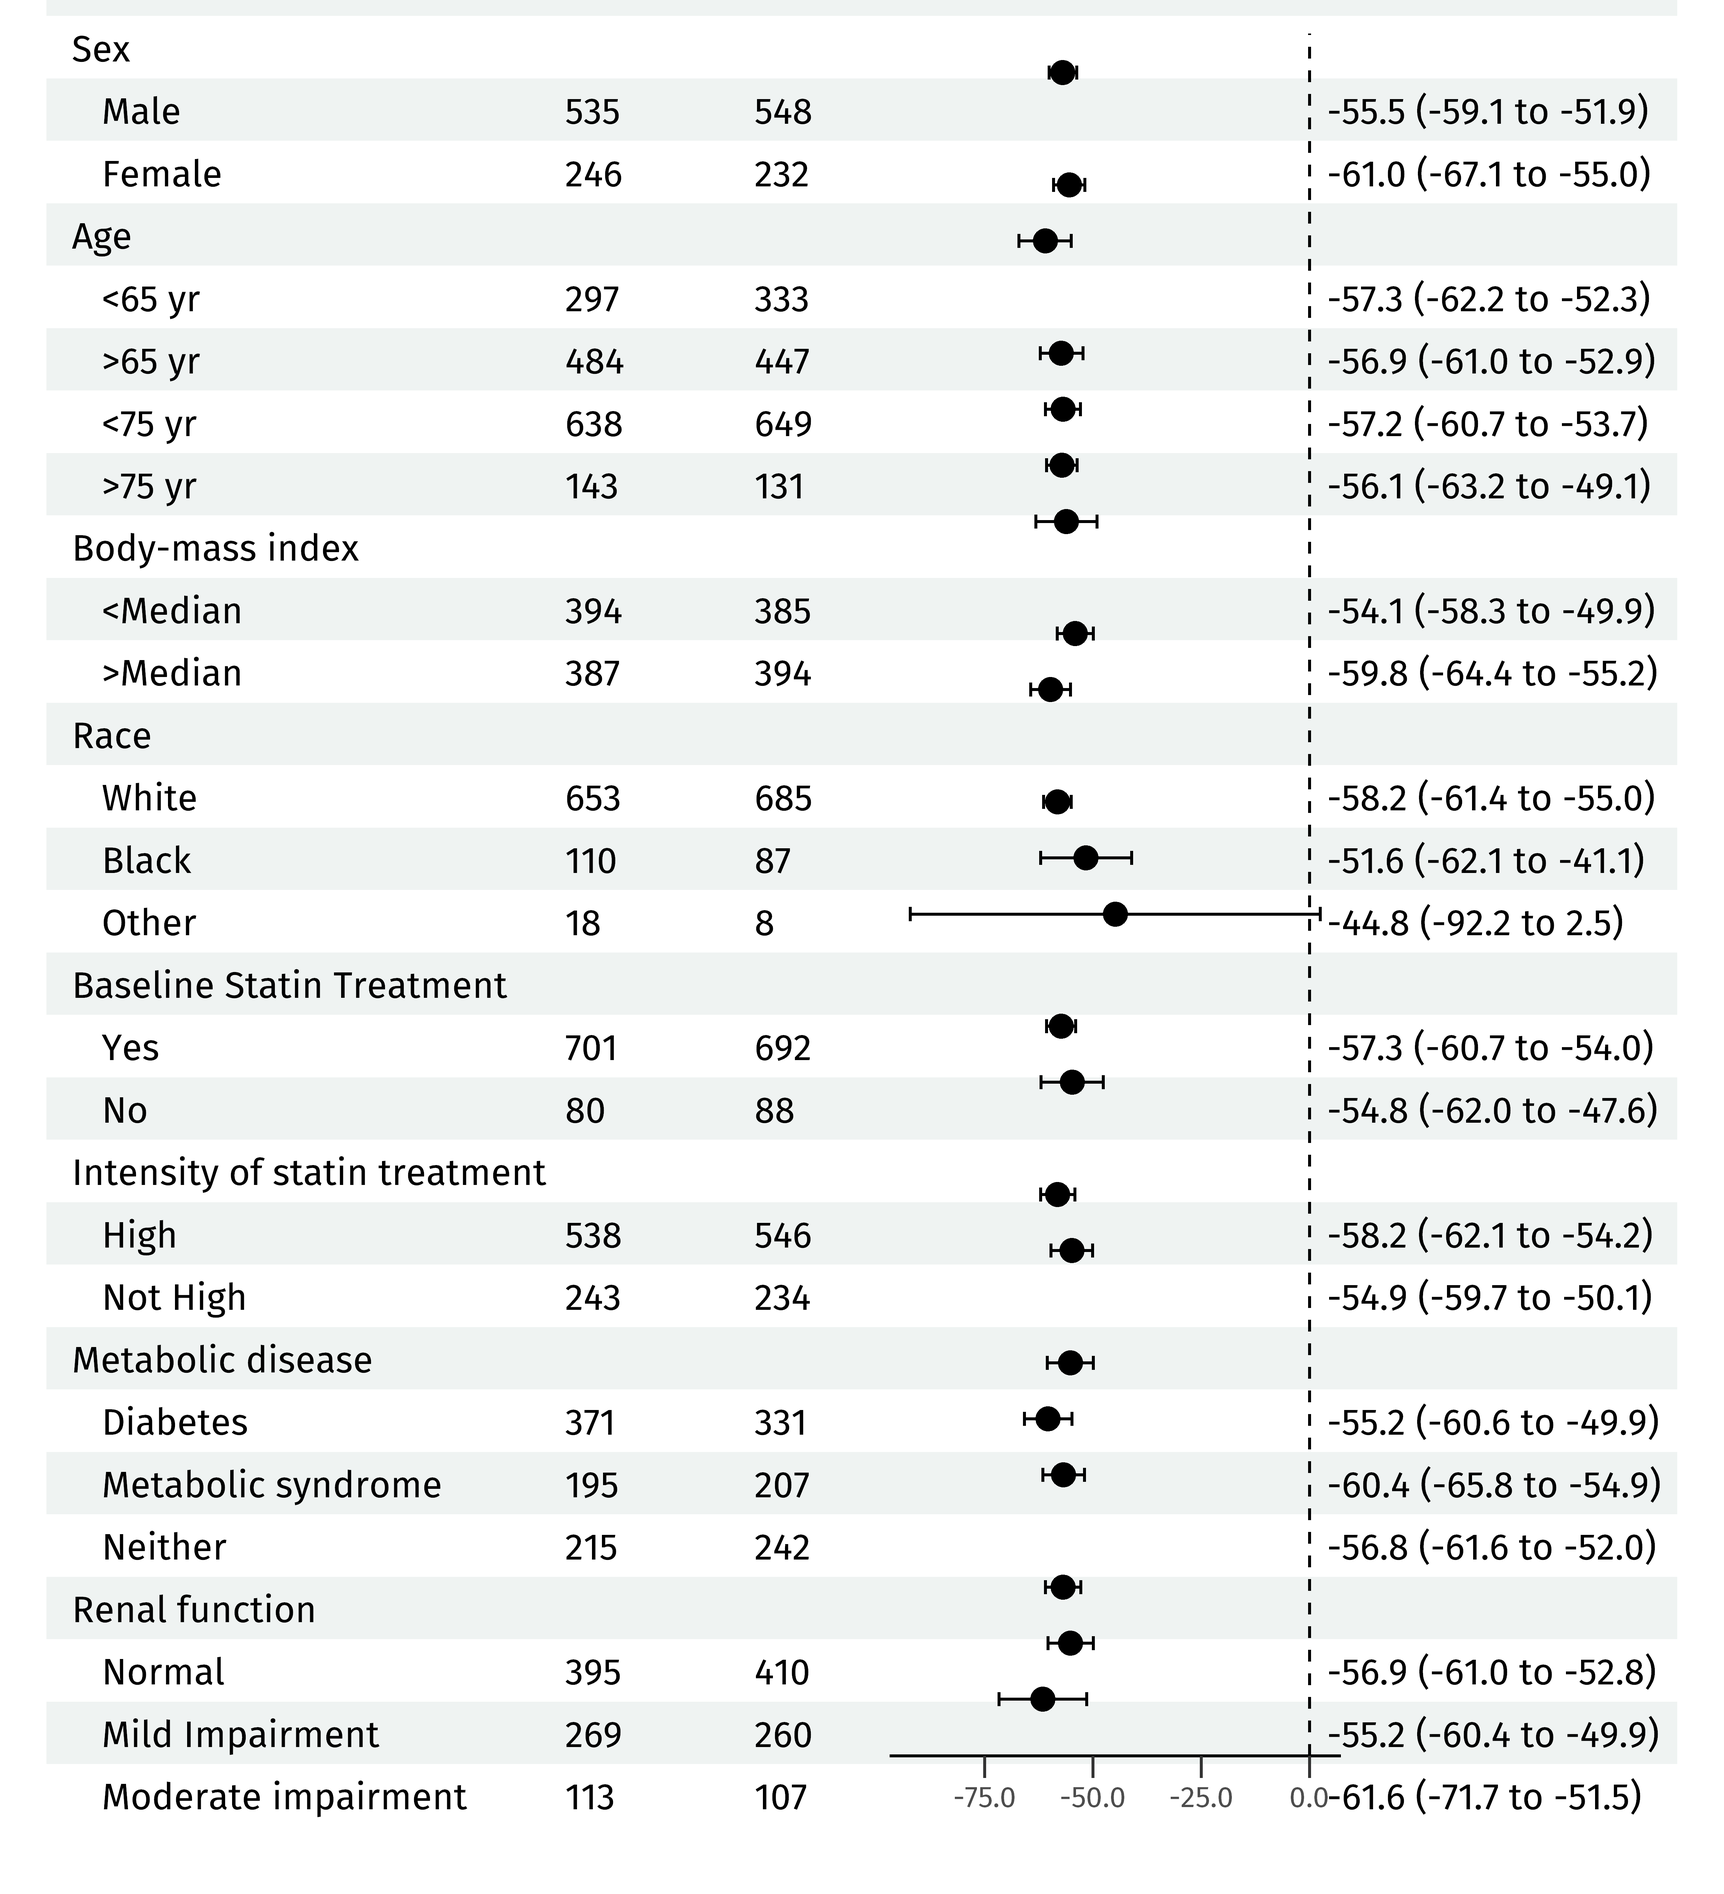
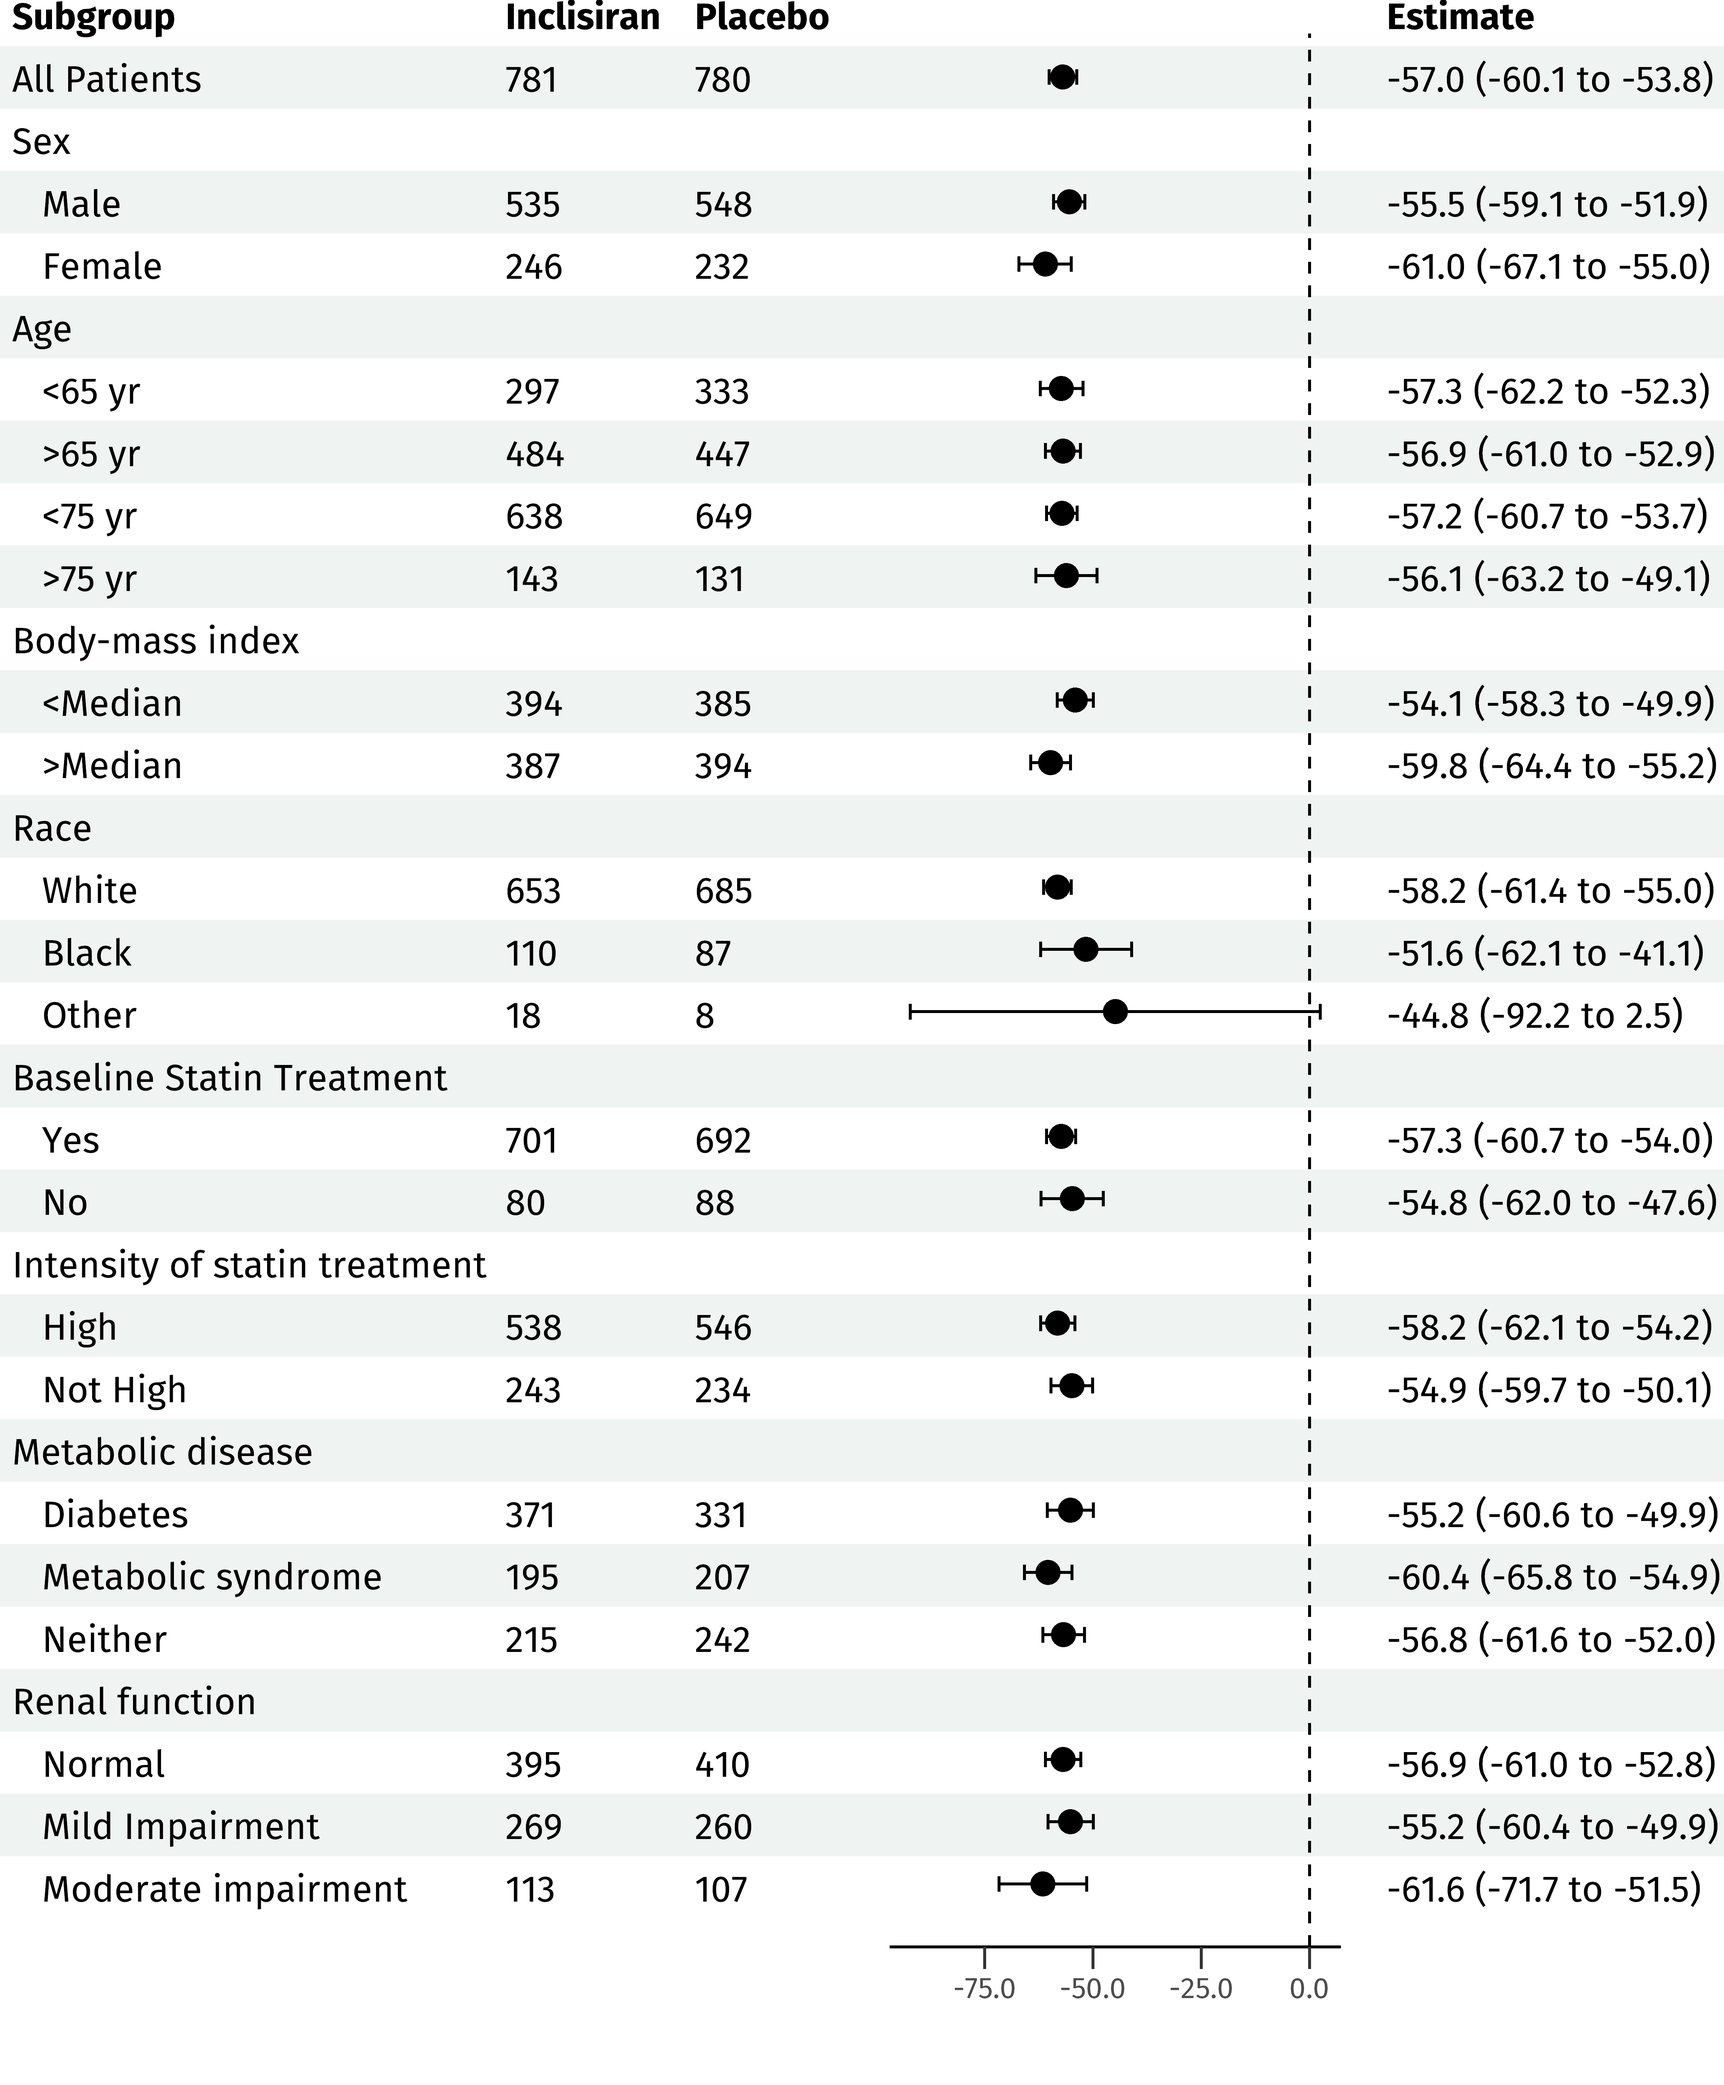
fira sans example is working now

diff --git a/README.md b/README.md
@@ -99,12 +99,42 @@ knitr::include_graphics(here::here("man/figures/fewer_cols.png"))
 
 <img src="D:/Projects/forestable/man/figures/fewer_cols.png" width="100%" />
 
+## Additional Fonts
+
+While Courier has a certain appeal, you might want to give your tables a
+more modern look. However, due to the difficulty of aligning all
+elements when using them, the use of non-monospaced fonts should be
+considered experimental at this stage.
+
+``` r
+library(extrafont)
+#> Registering fonts with R
+
+loadfonts(device = "win")
+windowsFonts("Fira Sans" = windowsFont("Fira Sans"))
+
+forestable(left_side_data = table[,1:3],
+           estimate = table$Estimate,
+           ci_low = table$`CI low`,
+           ci_high = table$`CI high`,
+           display = FALSE,
+           file_path = here::here("man/figures/forestable_plot_fira.png"),
+           font_family = "Fira Sans")
+#> Warning: Removed 8 rows containing missing values (geom_point).
+#> Warning: Removed 8 rows containing missing values (geom_errorbarh).
+
+knitr::include_graphics(here::here("man/figures/forestable_plot_fira.png"))
+```
+
+<img src="D:/Projects/forestable/man/figures/forestable_plot_fira.png" width="100%" />
+
 ## To Do
 
-  - Additional font support
+  - Better additional font support
   - Additional plot types, including ridgeline plots
+  - Add tests of any kind
 
-# References
+## References
 
 1.  Ray, K. K., Wright, R. S., Kallend, D., Koenig, W., Leiter, L. A.,
     Raal, F. J., Bisch, J. A., Richardson, T., Jaros, M., Wijngaard, P.
